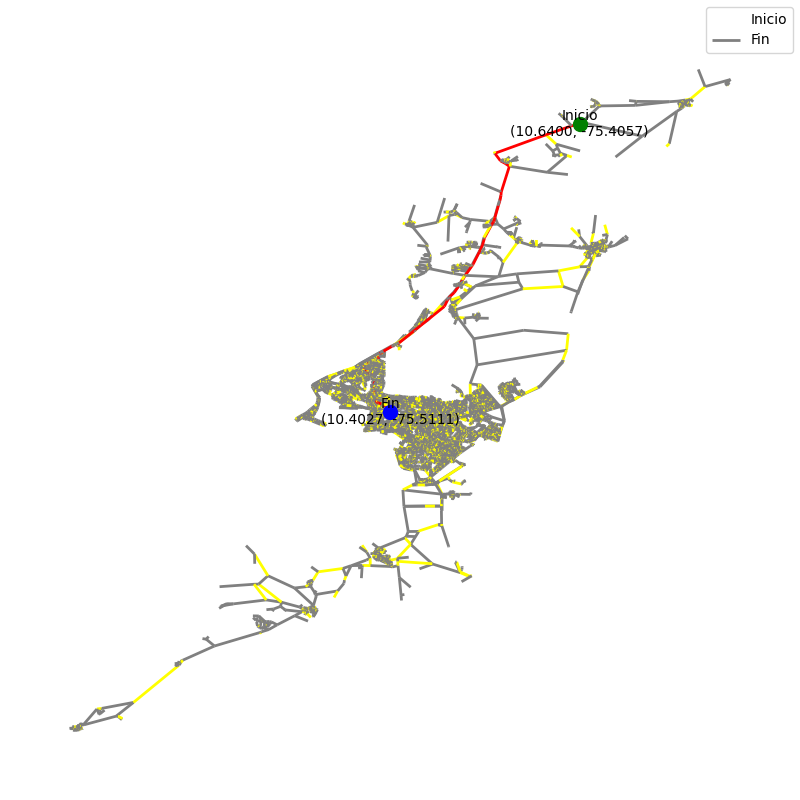
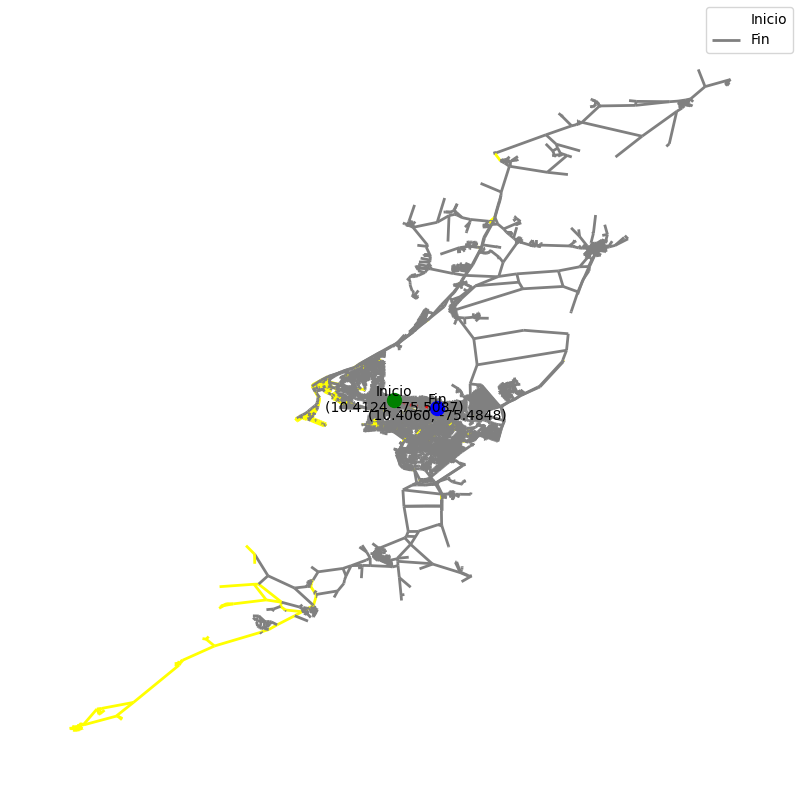
Fixes database connection and seeding logic
Updates database connection string to correctly use the password environment variable and trust the server certificate.

Improves data seeding by ensuring that the first 2000 edges are assigned a stratum of 1.
Also, restricts stratum random values to be greater than 1 for stratum values after the initial 2000 edges.

Modifies graph drawing service to focus on stratum 1 edges and use a fixed start node for consistency.

diff --git a/services/edge_services.py b/services/edge_services.py
@@ -34,18 +34,19 @@ def draw_graph():
     # Buscar nodos conectados a aristas con estrato 1 o 2
     estrato_nodes = set()
     for u, v, _, estrato in edges:
-        if estrato in (1, 2):
+        if estrato == 1:
             estrato_nodes.add(u)
             estrato_nodes.add(v)
     estrato_nodes = list(estrato_nodes)
     if not estrato_nodes:
-        print("No hay nodos conectados a aristas con estrato 1 o 2.")
+        print("No hay nodos conectados a aristas con estrato 1 ")
         return
 
-    start_node = nodes[0][0]
+    # start_node = nodes[0][0]
+    start_node = 1091385678
     end_node = random.choice(estrato_nodes)
 
-    print(f"Buscando camino desde {start_node} hasta {end_node} (estrato 1 o 2)")
+    print(f"Buscando camino desde {start_node} hasta {end_node} (estrato 1 )")
 
     try:
         path = nx.astar_path(

diff --git a/db/database.py b/db/database.py
@@ -9,7 +9,7 @@ from dotenv import load_dotenv
 load_dotenv()
 
 USER_NAME = os.getenv("DB_USER")
-PASSWORD = os.getenv("DB_PASSWORD")
+PASSWORD = os.getenv("DB_PASS")
 HOST = os.getenv("DB_HOST")
 DATABASE = os.getenv("DB_NAME")
 DB_PORT = os.getenv("DB_PORT")
@@ -20,10 +20,11 @@ connection_string = quote_plus(
     f"UID={USER_NAME};"
     f"PWD={PASSWORD};"
     f"Encrypt=yes;"
-    f"TrustServerCertificate=no;"
+    f"TrustServerCertificate=yes;"
     f"Connection Timeout=30;"
 )
 DATABASE_URL = f"mssql+pyodbc:///?odbc_connect={connection_string}"
+# print("Conexión a la base de datos:", DATABASE_URL)
 engine = create_engine(DATABASE_URL)
 SessionLocal = sessionmaker(autocommit=False, autoflush=False, bind=engine)
 Base = declarative_base()

diff --git a/repository/seed/seed_repository.py b/repository/seed/seed_repository.py
@@ -21,11 +21,15 @@ def seed_graph(db: Session):
     for index, row in edges.iterrows():
         if row['u'] != row['v']:
             num_cais = random.randint(1, 3)
-            estrato = random.randint(1, 6)
+            # Solo las primeras 200 aristas serán estrato 1
+            if index < 2000:
+                estrato = 1
+            else:
+                estrato = random.randint(2, 6)
             cams = random.randint(1, 5)
             length = row['length']
             traffic = random.randint(1, 10)
-            weight = length  + num_cais + estrato + cams + traffic
+            weight = length + num_cais + estrato + cams + traffic
 
             edge = Edge(
                 node_u=row['u'],
